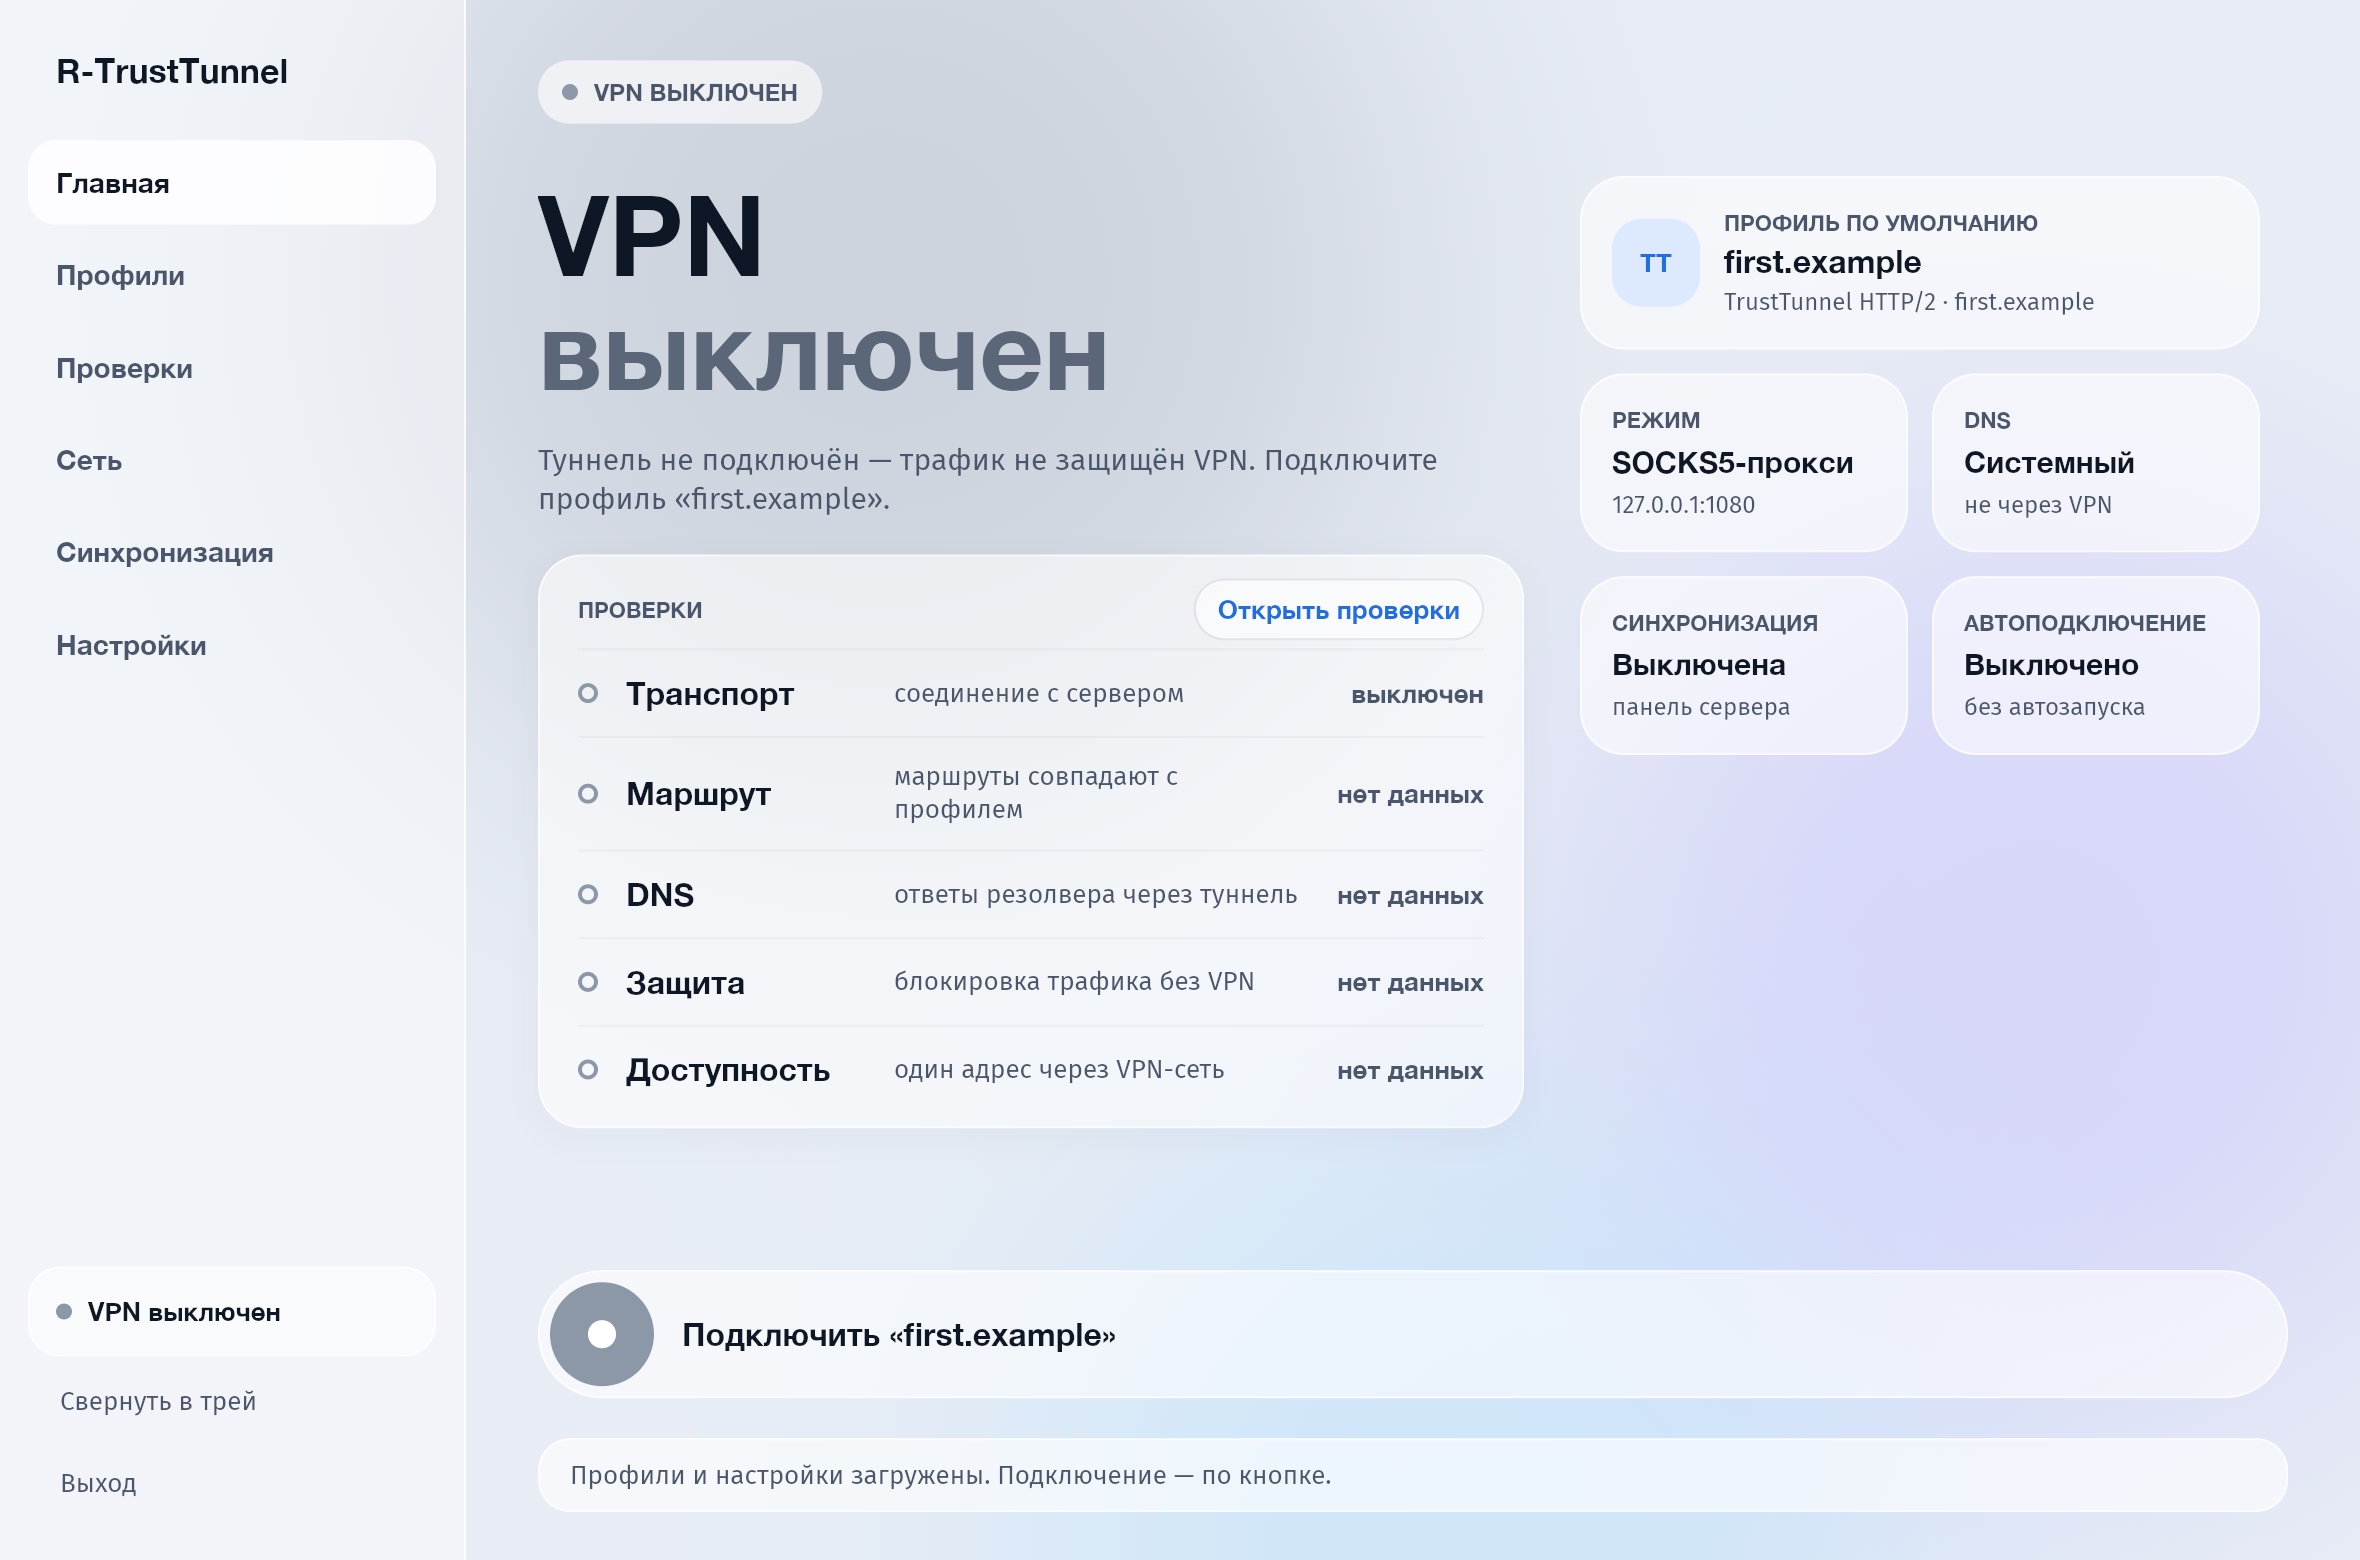
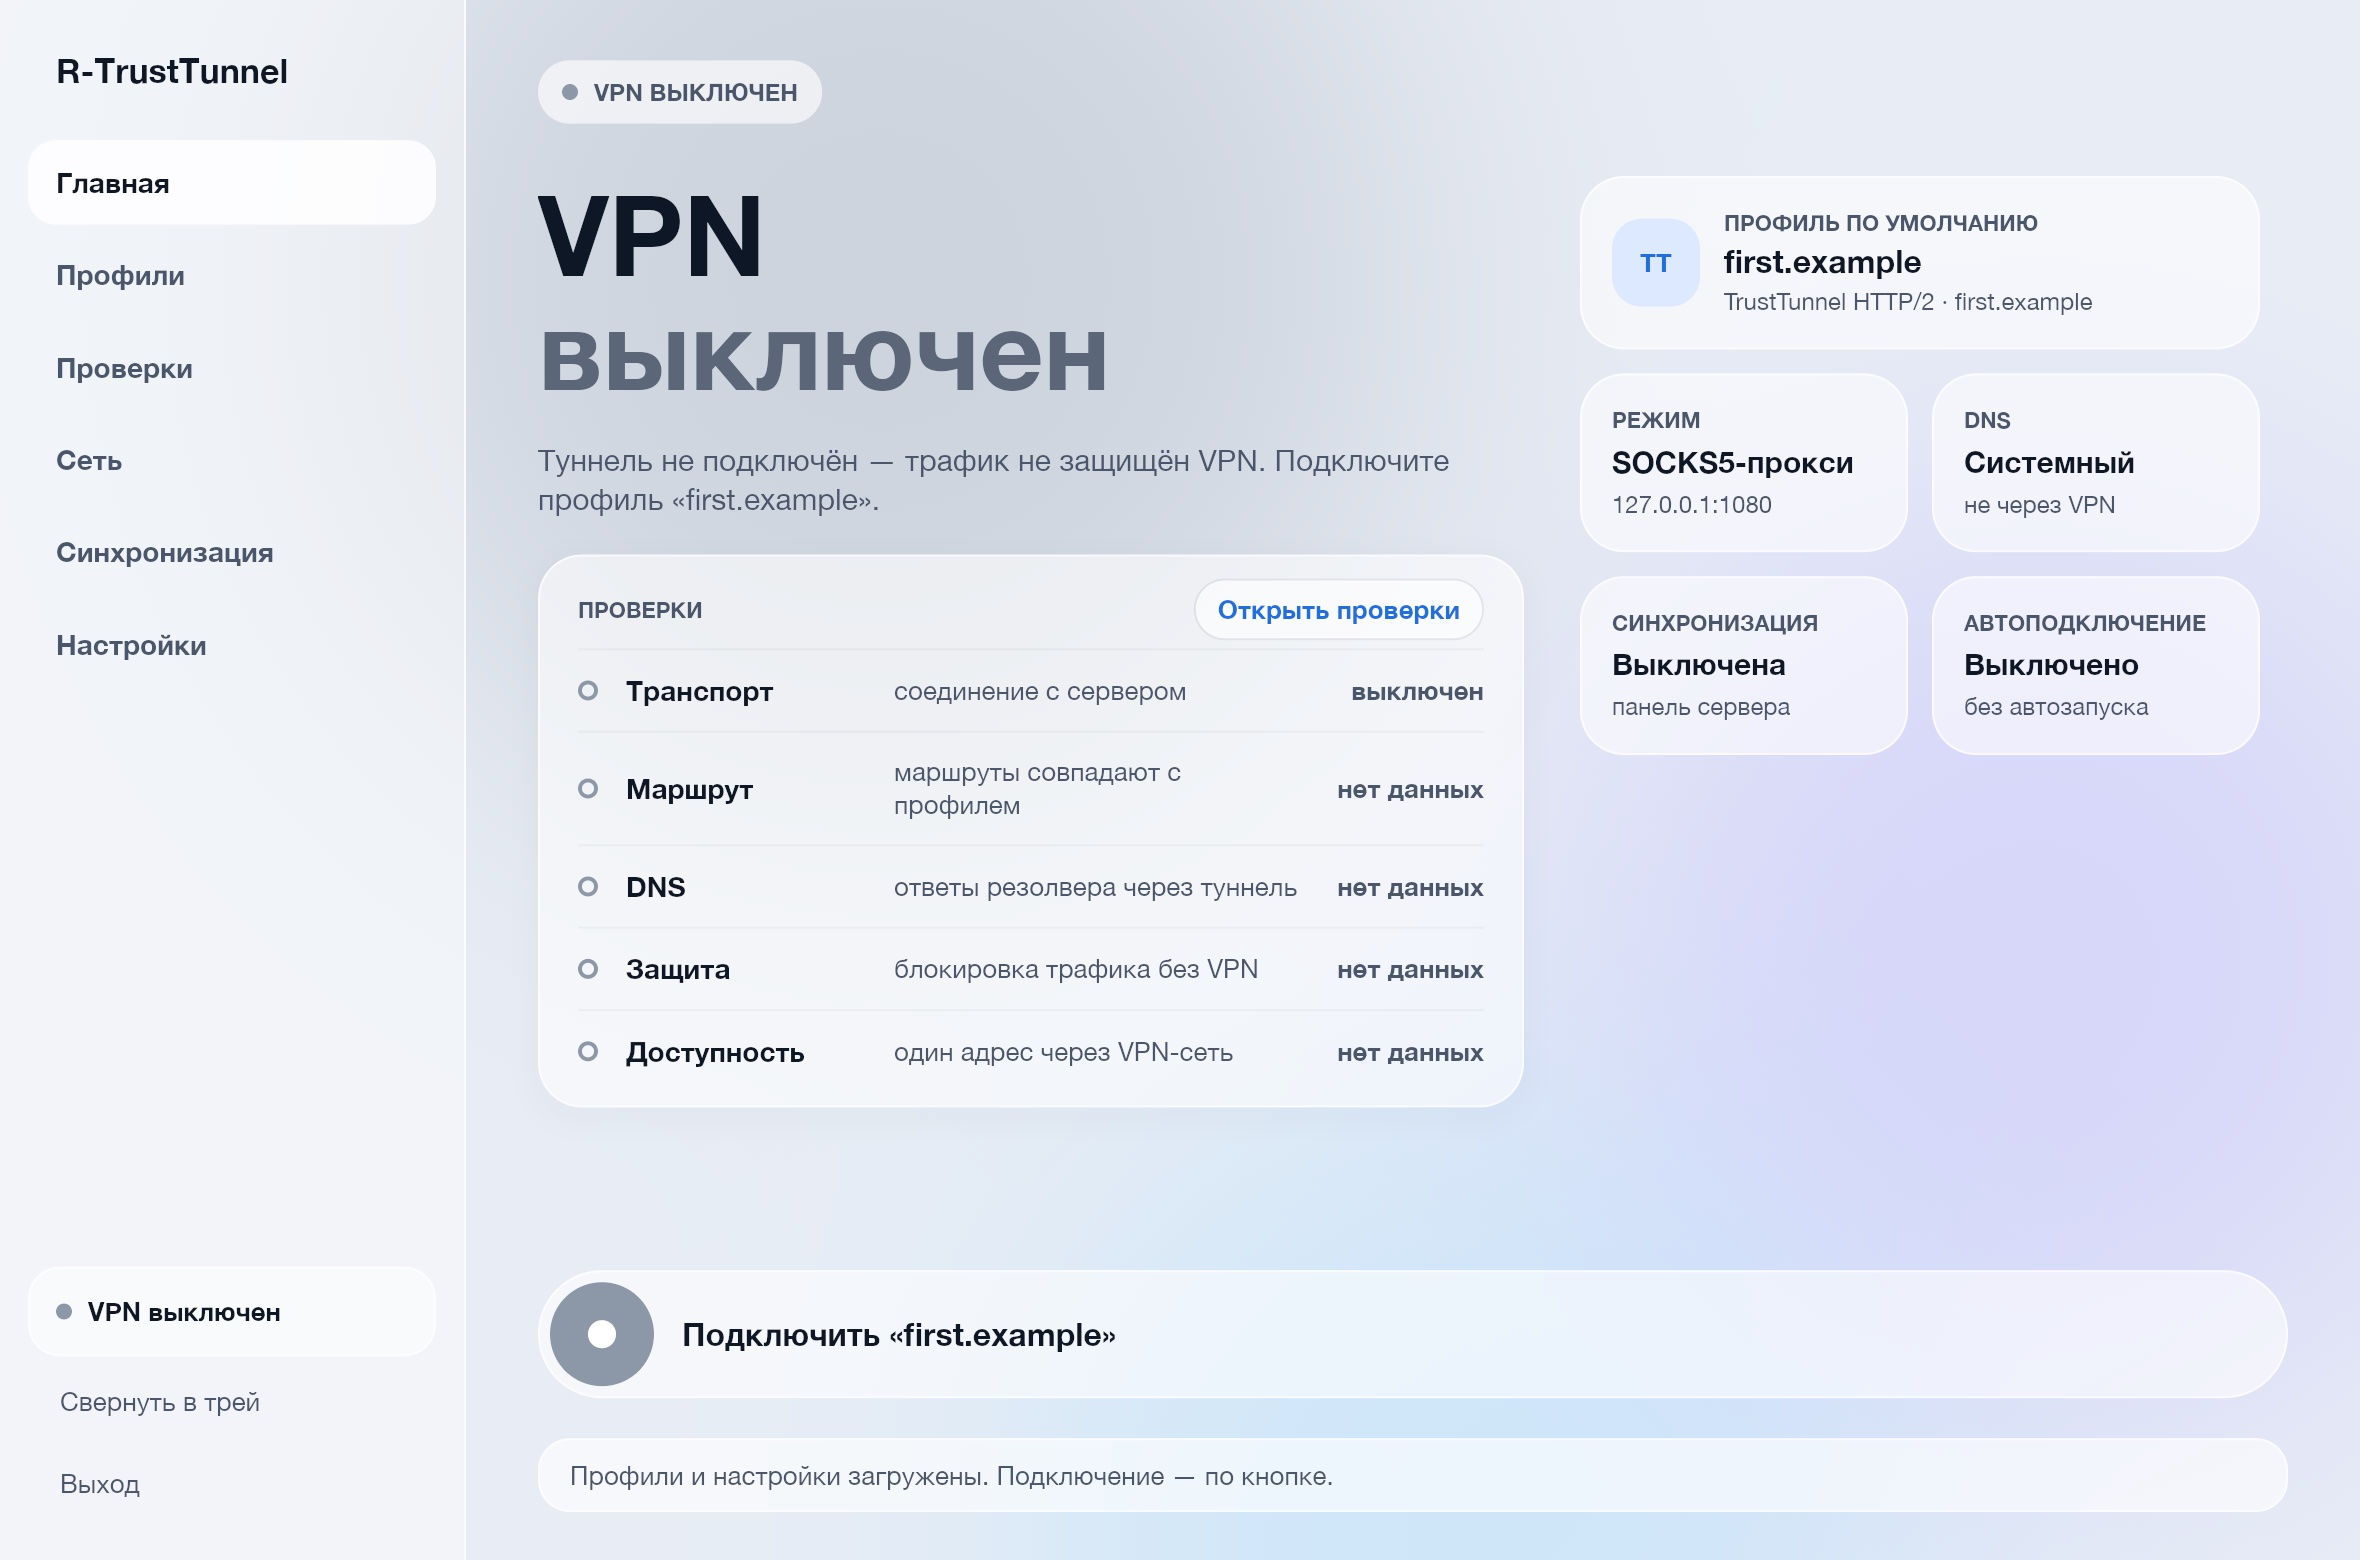
docs(screenshots): render Native with the app's font settings
iced_test defaults to Fira Sans at 16 pt, while the app sets Helvetica
Neue at 14 pt, so the Native captures showed larger, different text
than the installed client. Recapture with the application's settings
and explain in the gallery why the installed window still differs
(glass, system theme, connected state).

diff --git a/docs/screenshots/README.md b/docs/screenshots/README.md
@@ -19,8 +19,10 @@ and nothing was connected while capturing.
 - **Native.** The real `App::view()` of `apps/native` at 1180×780, rendered
   offscreen at 2× by `iced_test` with the wgpu renderer used on macOS. The app
   state was built the same way as in the unit tests, so no keyring, vault or
-  service was touched. The offscreen renderer uses the Fira Sans font and has no
-  macOS glass material, so the installed app looks slightly different.
+  service was touched. Text uses the app's own settings (Helvetica Neue, 14 pt).
+  Offscreen there is no desktop behind the window, so the macOS glass material
+  is off: with glass on, the installed app shows the desktop and colour fields
+  through the window.
 - **WebView.** The real `apps/webview/ui` files in an on-screen `WKWebView`
   window (the engine Tauri uses on macOS) at 1180×780, 2×. The Tauri bridge was
   replaced by a stub that returns the JSON of a real `rtrust_desktop::Controller`
@@ -29,8 +31,9 @@ and nothing was connected while capturing.
 - **Native** — настоящий `App::view()` из `apps/native` в окне 1180×780,
   отрисованный офскрин в 2× через `iced_test` с тем же wgpu-рендерером, что на
   macOS. Состояние собрано как в unit-тестах, поэтому Keychain, хранилище и
-  служба не использовались. Шрифт Fira Sans, без стеклянного фона macOS —
-  установленное приложение выглядит немного иначе.
+  служба не использовались. Текст — с настройками приложения (Helvetica Neue,
+  14 pt). Офскрин за окном нет рабочего стола, поэтому стекло macOS выключено:
+  со стеклом установленное приложение просвечивает рабочий стол и цветовые поля.
 - **WebView** — настоящие файлы `apps/webview/ui` в видимом окне `WKWebView`
   (движок Tauri на macOS) 1180×780 в 2×. Мост Tauri заменён заглушкой, которая
   возвращает JSON настоящего `rtrust_desktop::Controller` с теми же
@@ -38,12 +41,17 @@ and nothing was connected while capturing.
 
 These are not window captures of an installed package: the installed client on
 the capture Mac holds real profiles and controls a live VPN session. Both UIs are
-shown disconnected, so the Checks rows read "no data"; a connected session is
-not staged.
+shown disconnected, so the Checks rows read "no data" and the portal actions are
+enabled; while a VPN session runs, sync actions are disabled and the status line
+shows the latest check. Dark is shown for every page; the installed app follows
+the system theme unless one is chosen in Settings.
 
 Это не снимки окна установленного пакета: установленный клиент на этом Mac
 содержит реальные профили и управляет активным VPN. Оба интерфейса сняты без
-подключения, поэтому строки проверок показывают «нет данных».
+подключения: строки проверок показывают «нет данных», действия с панелью
+доступны. Во время VPN-сессии синхронизация недоступна, а строка статуса
+показывает последнюю проверку. Все страницы сняты в тёмной теме; установленное
+приложение следует теме системы, если тема не выбрана в настройках.
 
 ## Native
 
